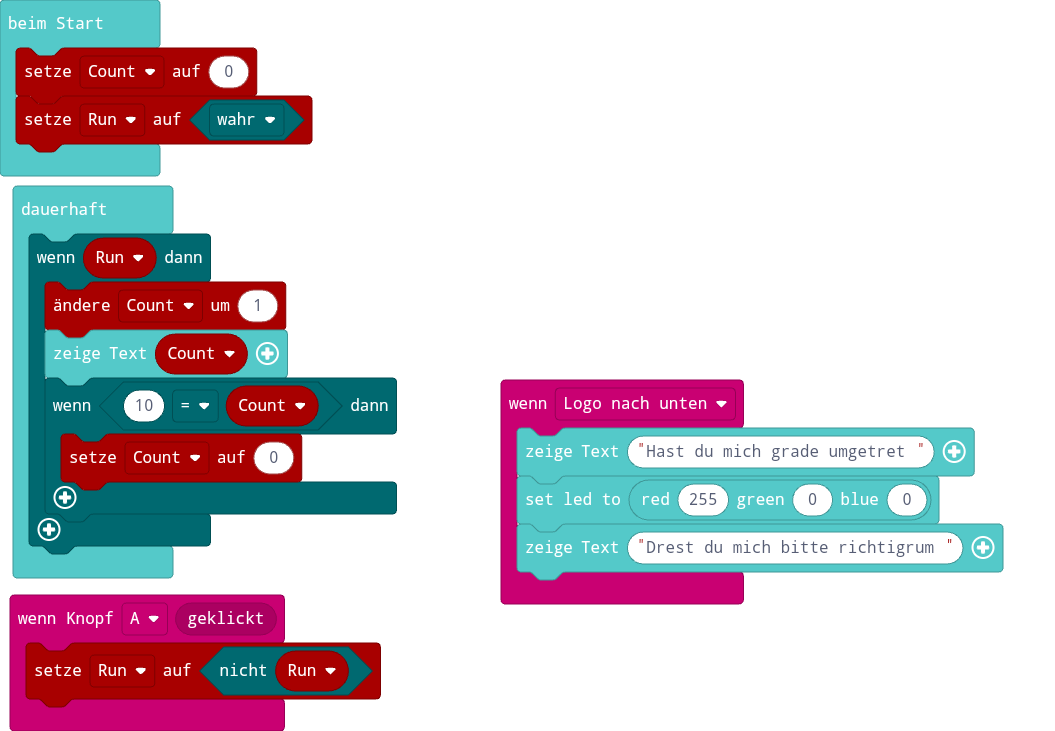
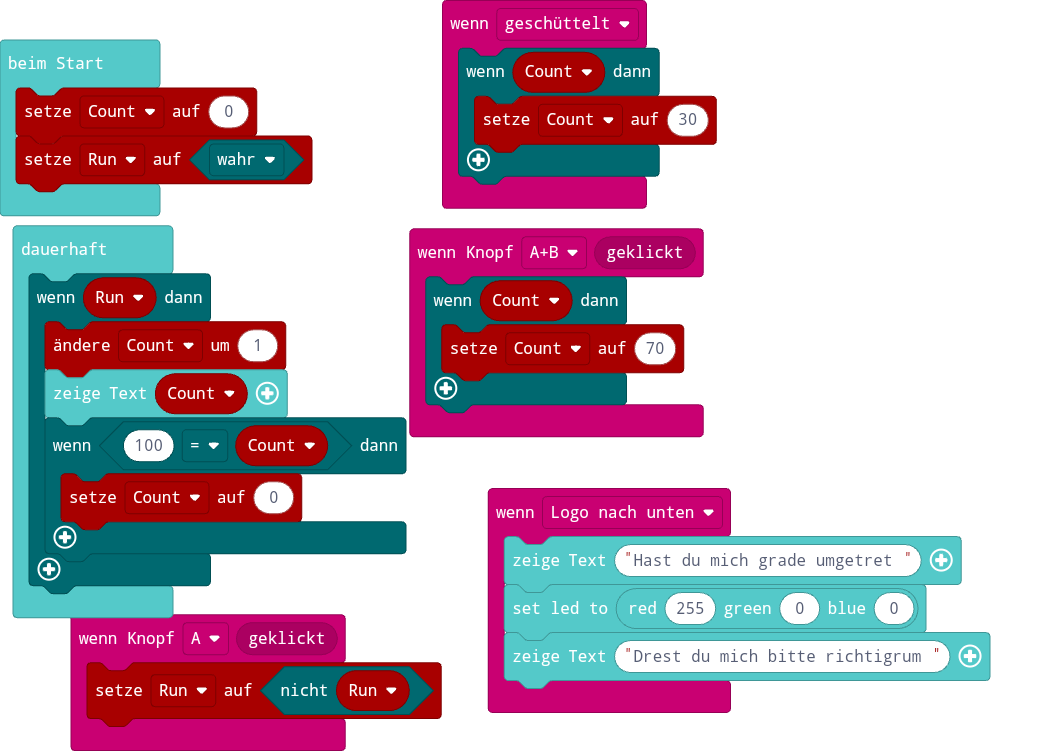
Aktualisiere main.blocks, main.ts

diff --git a/main.ts b/main.ts
@@ -1,6 +1,16 @@
 input.onButtonEvent(Button.A, input.buttonEventClick(), function () {
     Run = !(Run)
 })
+input.onButtonEvent(Button.AB, input.buttonEventClick(), function () {
+    if (Count) {
+        Count = 70
+    }
+})
+input.onGesture(Gesture.Shake, function () {
+    if (Count) {
+        Count = 30
+    }
+})
 input.onGesture(Gesture.LogoDown, function () {
     basic.showString("Hast du mich grade umgetret ")
     basic.setLedColor(basic.rgb(255, 0, 0))
@@ -8,12 +18,13 @@ input.onGesture(Gesture.LogoDown, function () {
 })
 let Run = false
 let Count = 0
+Count = 0
 Run = true
 basic.forever(function () {
     if (Run) {
         Count += 1
         basic.showString("" + (Count))
-        if (10 == Count) {
+        if (100 == Count) {
             Count = 0
         }
     }
